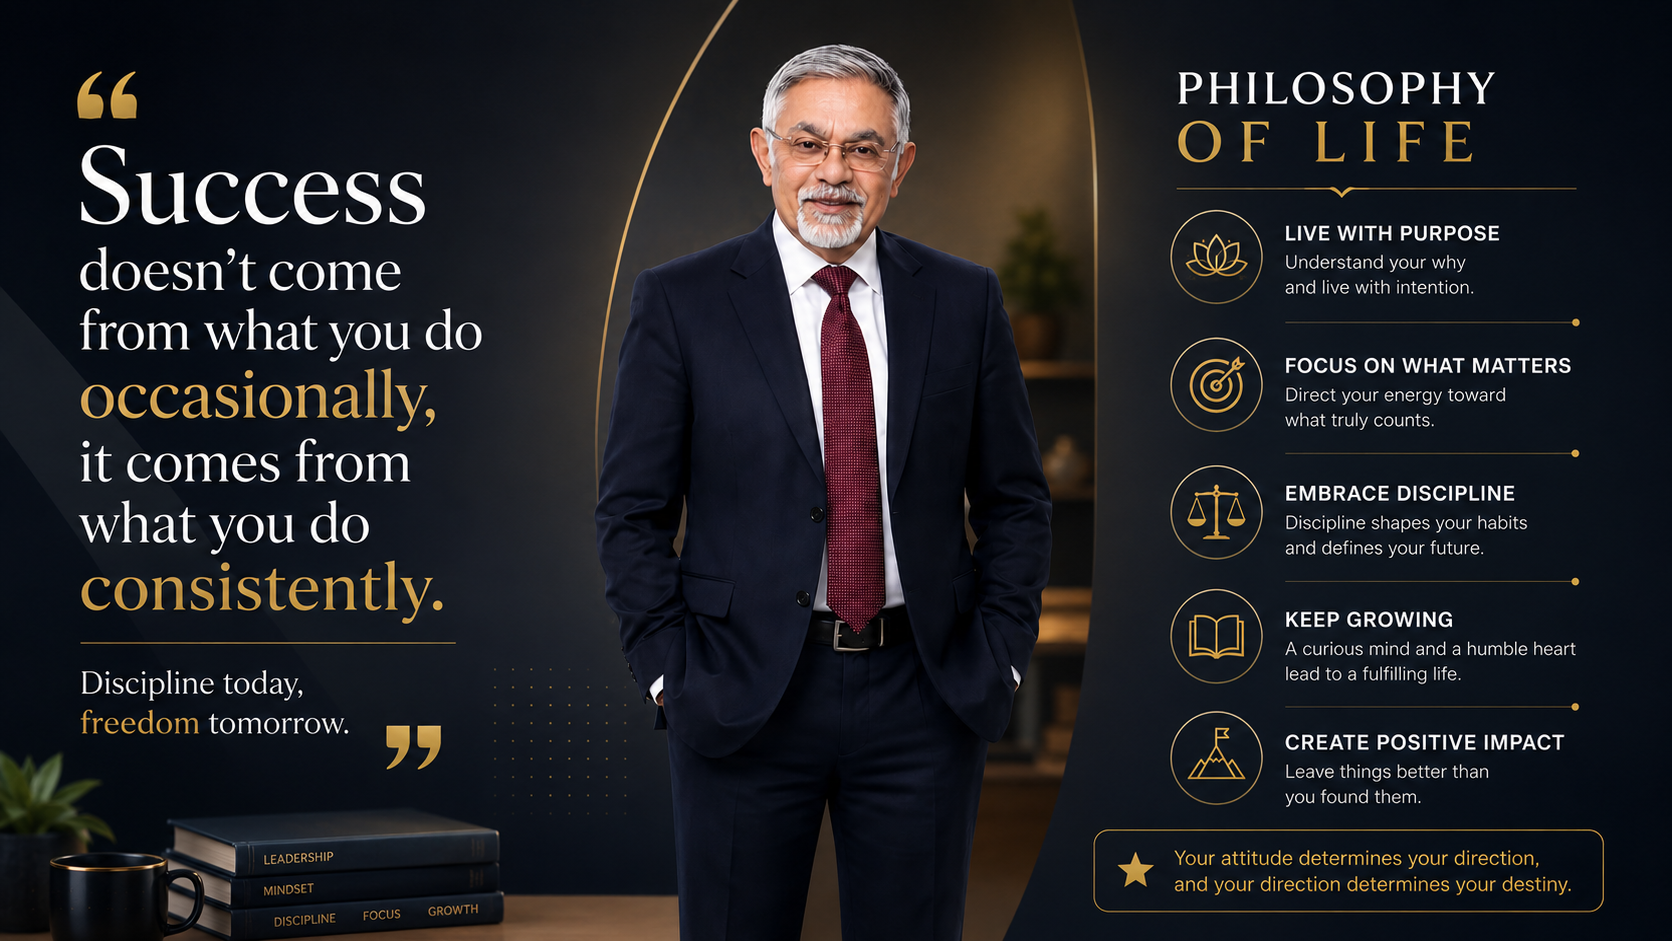
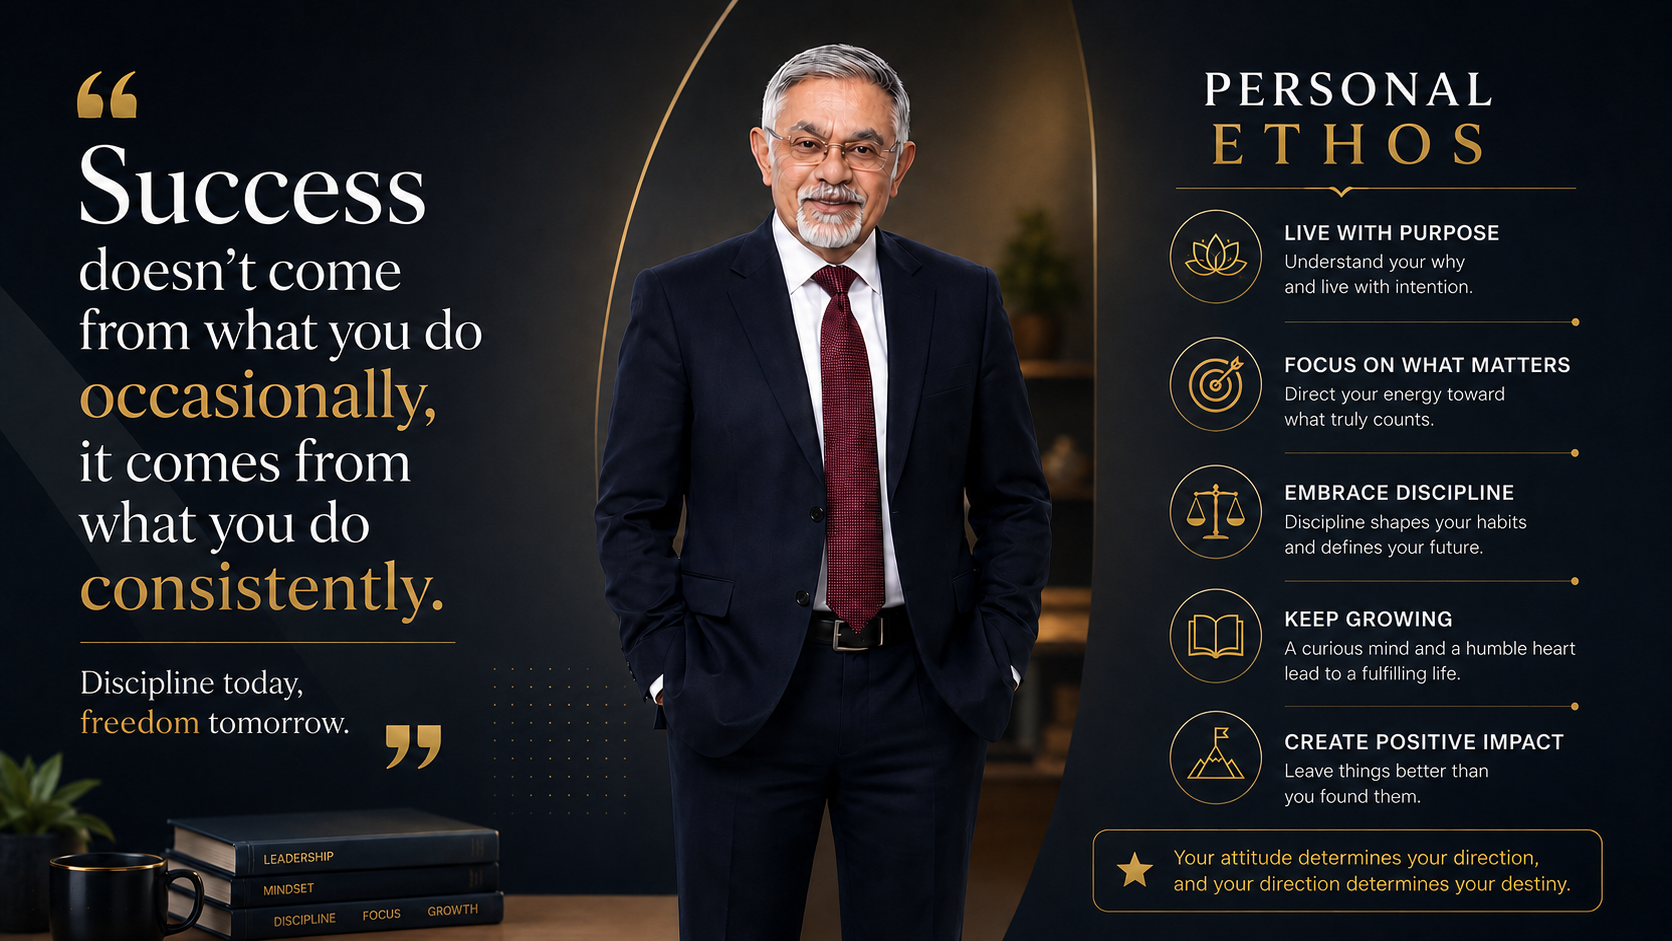
change in content

diff --git a/src/Component/Experience.jsx b/src/Component/Experience.jsx
@@ -7,8 +7,8 @@ const EXPERTISE_CARDS = [
   {
     icon: "partner_exchange",
     title: "Executive & Leadership",
-    text: "Driving leadership development and high-potential (HiPo) growth through structured journeys and real-world application.",
-    tags: ["EXECUTIVE COACHING", "LEADERSHIP DEVELOPMENT"],
+    text: "Driving leadership capability and organizational impact through structured journeys and realworld application.",
+    tags: ["EXECUTIVE COACHING", "LEADERSHIP DEVELOPMENT AND HIPO GROWTH "],
   },
   {
     icon: "trending_up",
@@ -44,11 +44,6 @@ const FRAMEWORKS = [
     icon: "partner_exchange",
     title: "Executive Coaching",
     text: "Providing confidential, high-impact guidance for senior executives and C-suite leaders.",
-  },
-  {
-    icon: "policy",
-    title: "Coaching Aligned with ICF Ethics",
-    text: "A commitment to absolute confidentiality and the highest ethical standards of global coaching practice.",
   },
 ];
 
@@ -97,9 +92,7 @@ export default function ExecutiveCoaching() {
               </h2>
               <div className="w-24 h-1 bg-primary mt-4" />
               <blockquote className="italic text-2xl font-semibold text-charcoal/80 border-l-4 border-border-light pl-6 my-6">
-                "Every individual possesses the ability to discover solutions through
-                reflection, awareness, and purposeful action. My role is to bridge the gap
-                By creating awareness, invoking action, and transforming potential into organizational impact."
+                "I believe individuals are naturally resourceful and capable of finding their own best solutions. My role is to create a trusted space for reflection, powerful conversations, and accountabilities that enables leaders to realize their full potential and create meaningful organizational impact"
               </blockquote>
             </ScrollReveal>
           </div>

diff --git a/src/Component/Hero.jsx b/src/Component/Hero.jsx
@@ -85,10 +85,10 @@ export default function ExecutivePortfolio() {
               <ScrollReveal variant="fade-up" delay={200}>
                 <div className="prose prose-lg max-w-none">
                   <p className="text-lg text-charcoal/80 mb-6 leading-relaxed">
-                    With more than three decades of global leadership experience, Dr. Krishan Singh has led large-scale industrial transformations, built high-performing organizations, and successfully managed complex people strategies across multiple countries. Today, he combines that real-world executive experience with executive coaching, leadership mentoring, and organizational consulting to help leaders unlock their full potential and create lasting business impact.
+                    With over three decades of global leadership, Dr. Krishan Singh has driven largescale industrial transformations, built highperforming organizations, and managed complex people strategies across diverse geographies. Today, he channels this executive expertise into consulting, coaching, and mentoring—helping leaders unlock potential and deliver lasting impact.
                   </p>
                   <p className="text-lg text-charcoal/80 mb-6 leading-relaxed">
-                    A champion of organizational stability and business continuity, Dr. Singh has negotiated key long-term wage settlements and maintained <strong>Connected industrial harmony</strong> across multiple high-stakes manufacturing plants.
+                    Renowned for his Industrial Relations acumen, Dr. Singh has resolved complex IR challenges and sustained harmony across highstakes manufacturing plants. His ability to transform confrontational unions into collaborative partners has ensured organizational stability, resilience, and business continuity in volatile environments.
                   </p>
                 </div>
               </ScrollReveal>
